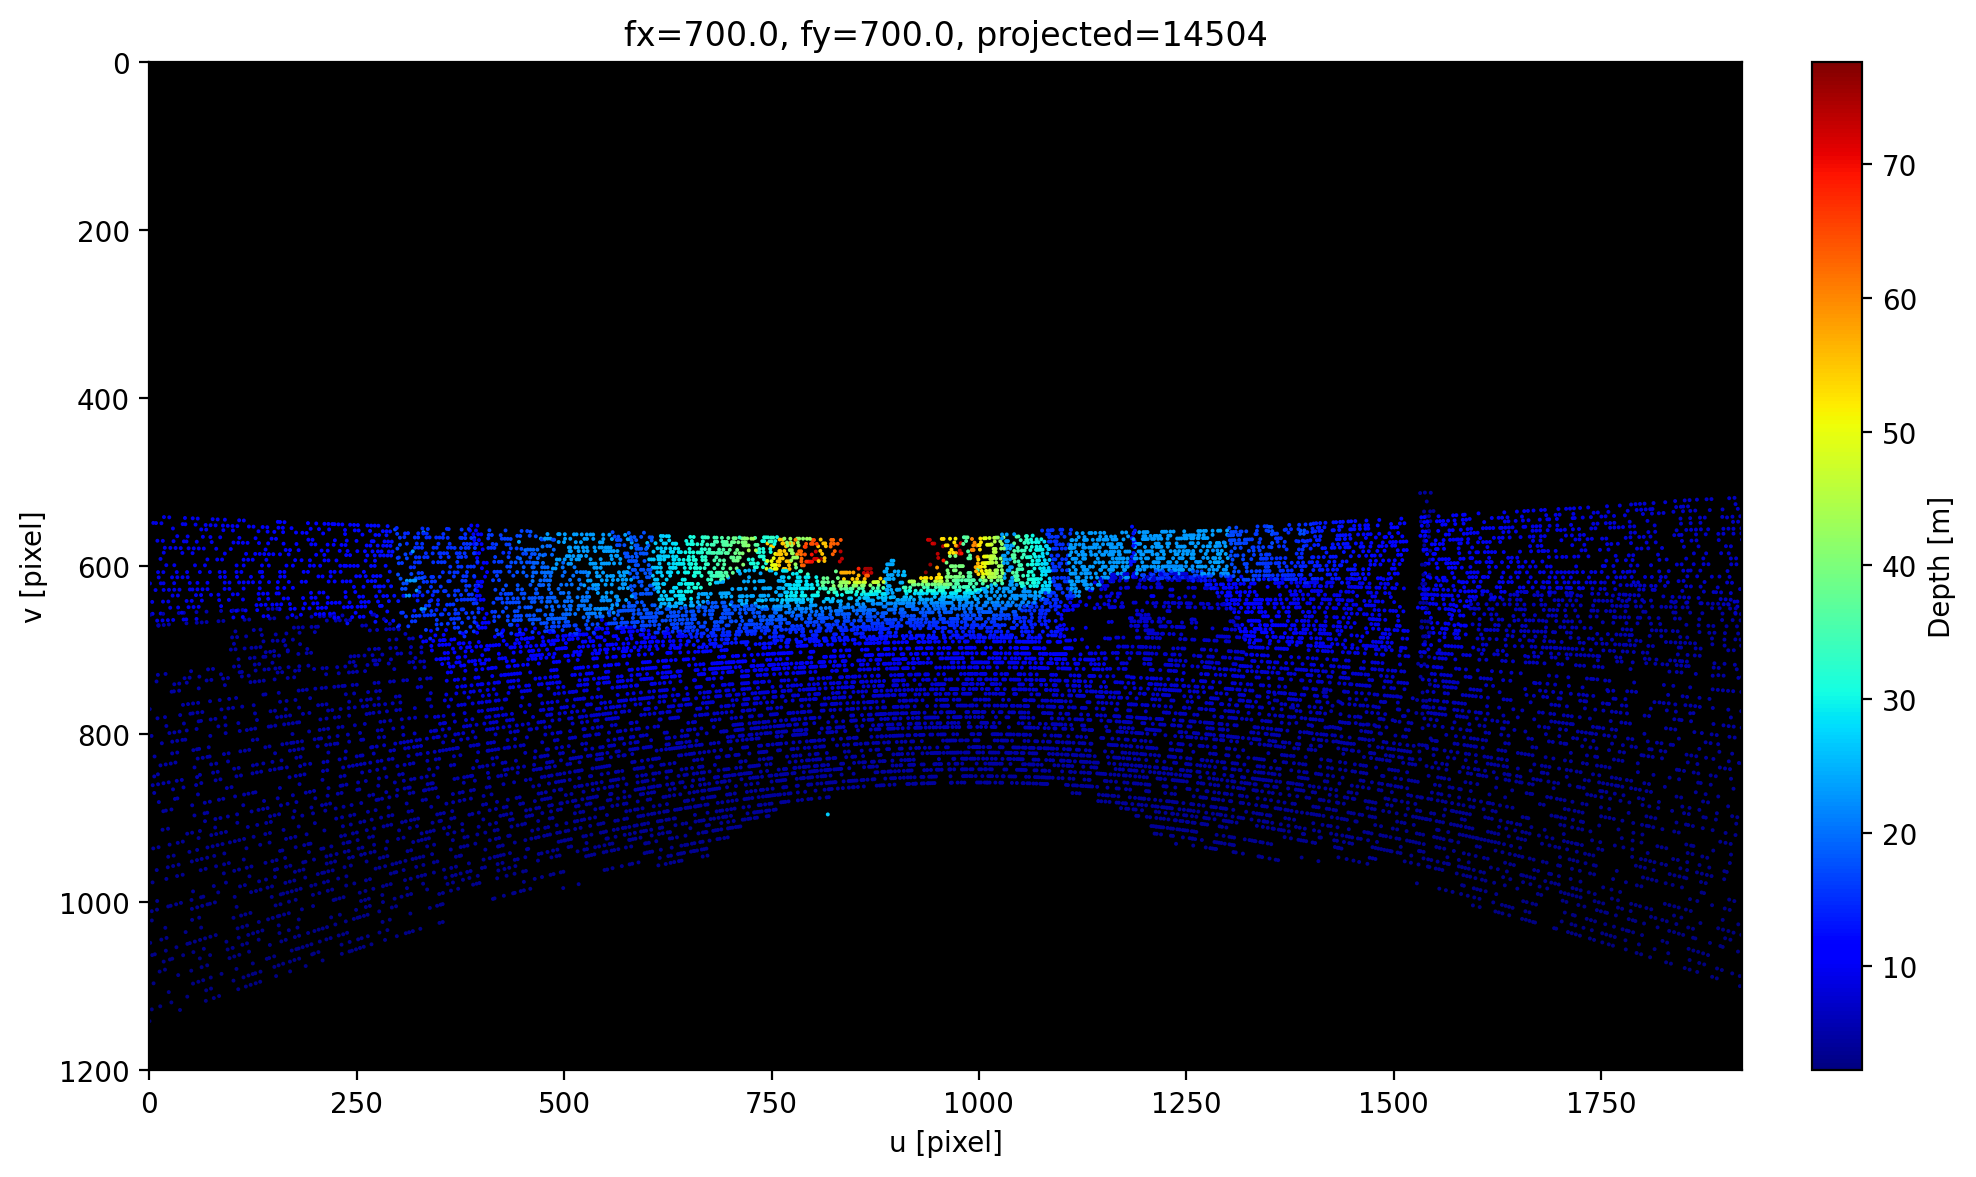
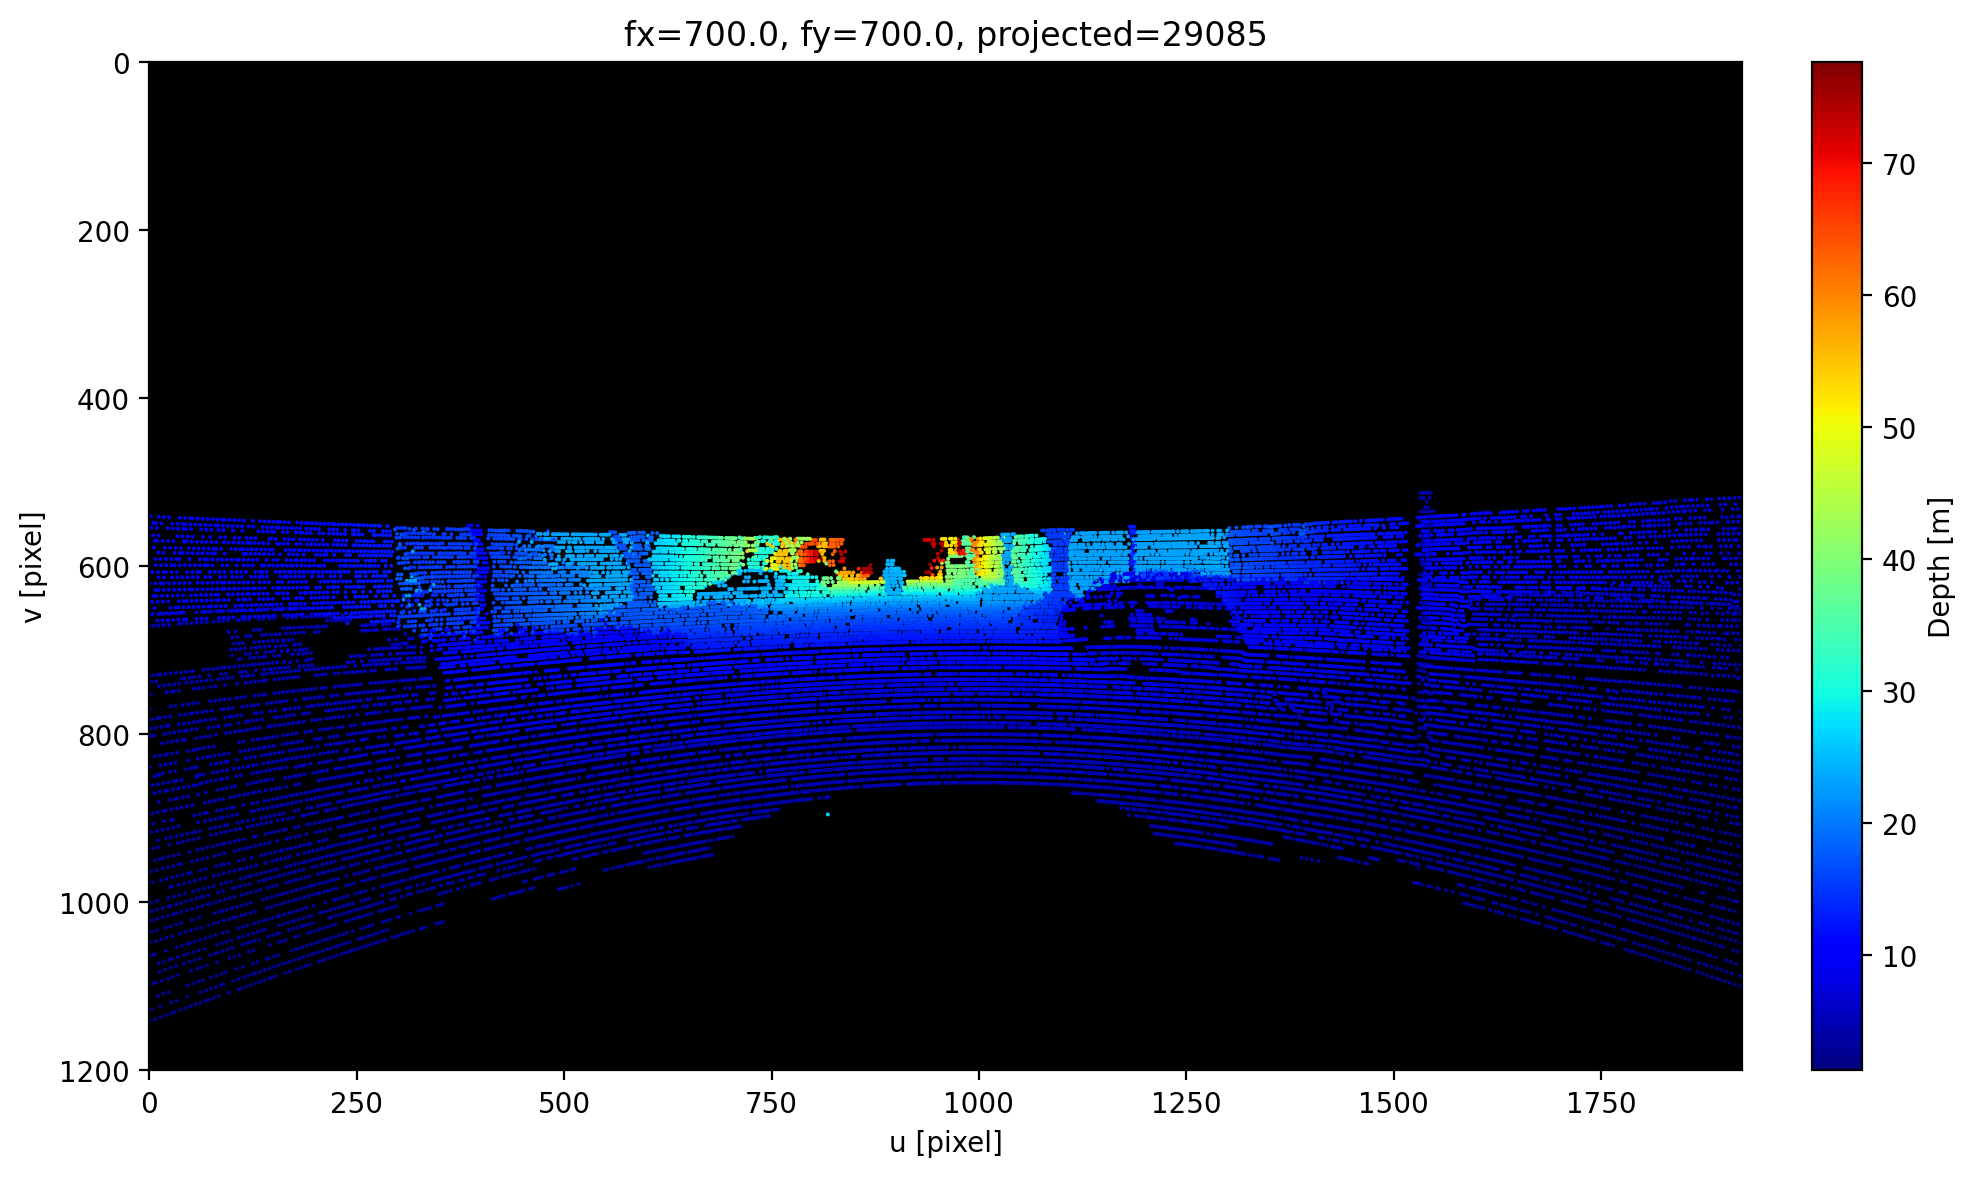
Add distortion coefficients to camera configuration and update projection logic
- Updated .gitignore to include /outputs directory
- Added new images to outputs for focal experiments
- Removed obsolete focal_experiment_pcd.png file
- Enhanced config.yaml to include distortion coefficients
- Implemented new functions in fov_compare.py for frustum depth calculations and point cloud coloring
- Modified projection.py to utilize distortion coefficients in the projection process

diff --git a/scripts/fov_compare.py b/scripts/fov_compare.py
@@ -259,6 +259,41 @@ def transform_points(T: np.ndarray, pts: np.ndarray) -> np.ndarray:
     return out[:, :3]
 
 
+def compute_reference_scaled_frustum_depths(
+    fx_list: List[float],
+    fy_list: List[float],
+    ref_depth: float,
+    mode: str = "fx",
+) -> List[float]:
+    """
+    가장 긴 초점거리를 기준으로 frustum depth를 비례 축소.
+
+    mode:
+      - "fx": fx 기준
+      - "fy": fy 기준
+      - "min": min(fx/fx_max, fy/fy_max)
+    """
+    fx_arr = np.array(fx_list, dtype=np.float64)
+    fy_arr = np.array(fy_list, dtype=np.float64)
+
+    fx_max = float(fx_arr.max())
+    fy_max = float(fy_arr.max())
+
+    depths = []
+    for fx, fy in zip(fx_arr, fy_arr):
+        if mode == "fx":
+            scale = fx / fx_max
+        elif mode == "fy":
+            scale = fy / fy_max
+        elif mode == "min":
+            scale = min(fx / fx_max, fy / fy_max)
+        else:
+            raise ValueError(f"Unsupported mode: {mode}")
+
+        depths.append(ref_depth * scale * 0.8)
+
+    return depths
+
 def make_frustum_lineset_from_T_lidar_cam(
     width: int,
     height: int,
@@ -356,14 +391,122 @@ def color_palette(n: int) -> List[Tuple[float, float, float]]:
 def fov_deg(image_size: int, focal: float) -> float:
     return float(np.degrees(2.0 * np.arctan(image_size / (2.0 * focal))))
 
+def compute_in_frustum_mask(
+    points_cam: np.ndarray,
+    width: int,
+    height: int,
+    fx: float,
+    fy: float,
+    cx: float,
+    cy: float,
+) -> np.ndarray:
+    """
+    points_cam: camera 좌표계 [N, 3]
+    return: 각 점이 해당 frustum 안에 있는지 bool mask [N]
+
+    far plane은 고정 frustum_depth가 아니라,
+    카메라 전방(Z > 0)에 있는 점들 중 가장 먼 점의 Z를 사용한다.
+    """
+    X = points_cam[:, 0]
+    Y = points_cam[:, 1]
+    Z = points_cam[:, 2]
+
+    forward_mask = Z > 0.0
+    if not np.any(forward_mask):
+        return np.zeros(points_cam.shape[0], dtype=bool)
+
+    far_depth = float(Z[forward_mask].max())
+
+    mask = Z > 0.0
+    mask &= Z <= far_depth
+
+    u = np.empty_like(Z)
+    v = np.empty_like(Z)
+
+    u[forward_mask] = fx * (X[forward_mask] / Z[forward_mask]) + cx
+    v[forward_mask] = fy * (Y[forward_mask] / Z[forward_mask]) + cy
+
+    mask &= (u >= 0.0) & (u <= (width - 1.0))
+    mask &= (v >= 0.0) & (v <= (height - 1.0))
+
+    return mask
+
+def make_layer_colored_point_cloud(
+    points_lidar: np.ndarray,
+    cfg: Open3DFrustumConfig,
+    fx_list: List[float],
+    fy_list: List[float],
+    frustum_colors: List[Tuple[float, float, float]],
+    outside_color: Tuple[float, float, float] = (0.5, 0.5, 0.5),
+) -> Tuple[o3d.geometry.PointCloud, np.ndarray, List[np.ndarray]]:
+    """
+    FOV가 넓은 것부터 좁은 것까지 계층적으로 점에 색을 칠한다.
+
+    반환:
+      - 색칠된 point cloud
+      - widest -> narrowest 순으로 정렬된 frustum 인덱스
+      - 각 frustum의 inside mask 리스트
+    """
+    # 최종 표시될 포인트 기준으로 먼저 voxel downsample 적용
+    pcd = make_point_cloud(points_lidar, cfg.voxel_size)
+    points_disp = np.asarray(pcd.points, dtype=np.float64)
+
+    # LiDAR -> Camera
+    points_cam = transform_points(cfg.T_cam_lidar, points_disp)
+
+    # 각 frustum별 mask 계산
+    masks: List[np.ndarray] = []
+    fov_x_list: List[float] = []
+
+    for fx, fy in zip(fx_list, fy_list):
+        masks.append(
+            compute_in_frustum_mask(
+                points_cam=points_cam,
+                width=cfg.camera.width,
+                height=cfg.camera.height,
+                fx=fx,
+                fy=fy,
+                cx=cfg.camera.cx,
+                cy=cfg.camera.cy,
+            )
+        )
+        fov_x_list.append(fov_deg(cfg.camera.width, fx))
+
+    # widest -> narrowest
+    sorted_indices = np.argsort(np.array(fov_x_list))[::-1]
+
+    colors_arr = np.tile(
+        np.array(outside_color, dtype=np.float64),
+        (points_disp.shape[0], 1),
+    )
+
+    # 좁은 것부터 칠해야 중심부가 유지되고, 바깥 band만 넓은 FOV 색이 남음
+    narrower_union = np.zeros(points_disp.shape[0], dtype=bool)
+
+    for idx in sorted_indices[::-1]:  # narrowest -> widest
+        band_mask = masks[idx] & (~narrower_union)
+        colors_arr[band_mask] = np.array(frustum_colors[idx], dtype=np.float64)
+        narrower_union |= masks[idx]
+
+    pcd.colors = o3d.utility.Vector3dVector(colors_arr)
+    return pcd, sorted_indices, masks
 
 def run_visualization(cfg: Open3DFrustumConfig) -> None:
     points = load_points(cfg.points_path, cfg.points_format)
     points = downsample_points(points, cfg.max_points)
-    pcd = make_point_cloud(points, cfg.voxel_size)
 
     fy_list = cfg.fy_list if cfg.fy_list is not None else cfg.fx_list
     colors = color_palette(len(cfg.fx_list))
+
+    # FOV 계층 색칠된 point cloud 생성
+    pcd, sorted_indices, masks = make_layer_colored_point_cloud(
+        points_lidar=points,
+        cfg=cfg,
+        fx_list=cfg.fx_list,
+        fy_list=fy_list,
+        frustum_colors=colors,
+        outside_color=(0.5, 0.5, 0.5),
+    )
 
     T_lidar_cam = np.linalg.inv(cfg.T_cam_lidar)
 
@@ -380,16 +523,42 @@ def run_visualization(cfg: Open3DFrustumConfig) -> None:
             T_lidar_cam=T_lidar_cam,
             size=cfg.camera_frame_size,
         )
-        geometries.append(cam_frame)  
+        geometries.append(cam_frame)
+
+    print("\n=== Point coloring order (widest -> narrowest) ===")
+    for rank, idx in enumerate(sorted_indices):
+        fx = cfg.fx_list[idx]
+        fy = fy_list[idx]
+        fov_x = fov_deg(cfg.camera.width, fx)
+        fov_y = fov_deg(cfg.camera.height, fy)
+        inside_count = int(masks[idx].sum())
+
+        print(
+            f"[rank {rank}] frustum_idx={idx}, "
+            f"fx={fx:.3f}, fy={fy:.3f}, "
+            f"FOVx={fov_x:.3f}, FOVy={fov_y:.3f}, "
+            f"inside_points={inside_count}, color={colors[idx]}"
+        )
+
+    fy_list = cfg.fy_list if cfg.fy_list is not None else cfg.fx_list
+    colors = color_palette(len(cfg.fx_list))
+
+    frustum_depths = compute_reference_scaled_frustum_depths(
+        fx_list=cfg.fx_list,
+        fy_list=fy_list,
+        ref_depth=cfg.frustum_depth,
+        mode="fx",
+    )
 
     print("\n=== Frustum list ===")
-    for i, (fx, fy, color) in enumerate(zip(cfg.fx_list, fy_list, colors)):
+    for i, (fx, fy, color, depth_i) in enumerate(zip(cfg.fx_list, fy_list, colors, frustum_depths)):
         fov_x = fov_deg(cfg.camera.width, fx)
         fov_y = fov_deg(cfg.camera.height, fy)
 
         print(
             f"[{i}] color={color}  fx={fx:.3f}, fy={fy:.3f}, "
-            f"FOVx={fov_x:.3f} deg, FOVy={fov_y:.3f} deg"
+            f"FOVx={fov_x:.3f} deg, FOVy={fov_y:.3f} deg, "
+            f"depth={depth_i:.3f}"
         )
 
         frustum = make_frustum_lineset_from_T_lidar_cam(
@@ -400,21 +569,25 @@ def run_visualization(cfg: Open3DFrustumConfig) -> None:
             cx=cfg.camera.cx,
             cy=cfg.camera.cy,
             T_lidar_cam=T_lidar_cam,
-            depth=cfg.frustum_depth,
+            depth=depth_i,
             color=color,
         )
         geometries.append(frustum)
 
-        if cfg.add_camera_centers:
-            sphere = make_camera_center_sphere(
-                T_lidar_cam=T_lidar_cam,
-                radius=cfg.camera_center_radius,
-                color=color,
-            )
-            geometries.append(sphere)
+    if cfg.add_camera_centers:
+        sphere = make_camera_center_sphere(
+            T_lidar_cam=T_lidar_cam,
+            radius=cfg.camera_center_radius,
+            color=color,
+        )
+        geometries.append(sphere)
 
     vis = o3d.visualization.Visualizer()
-    vis.create_window(window_name="Open3D Focal Length Frustum Viewer", width=1600, height=900)
+    vis.create_window(
+        window_name="Open3D Focal Length Frustum Viewer",
+        width=1600,
+        height=900,
+    )
     for g in geometries:
         vis.add_geometry(g)
 

diff --git a/scripts/projection.py b/scripts/projection.py
@@ -52,6 +52,7 @@ class ExperimentConfig:
 
     cx: Optional[float]
     cy: Optional[float]
+    dist_coeffs: np.ndarray
 
     min_depth: float
     max_points: int
@@ -170,6 +171,9 @@ def build_experiment_config(raw: Dict[str, Any]) -> ExperimentConfig:
     fy_list_raw = exp_cfg.get("fy_list", None)
     fy_list = [float(x) for x in fy_list_raw] if fy_list_raw is not None else None
 
+    dist_coeffs_raw = cam_cfg.get("dist_coeffs", [0.0, 0.0, 0.0, 0.0, 0.0])
+    dist_coeffs = np.array(dist_coeffs_raw, dtype=np.float64).reshape(-1, 1)
+
     cfg = ExperimentConfig(
         points_path=io_cfg.get("points_path", None),
         points_format=str(io_cfg.get("points_format", "npy")).lower(),
@@ -183,6 +187,7 @@ def build_experiment_config(raw: Dict[str, Any]) -> ExperimentConfig:
 
         cx=float(cam_cfg["cx"]) if cam_cfg.get("cx", None) is not None else None,
         cy=float(cam_cfg["cy"]) if cam_cfg.get("cy", None) is not None else None,
+        dist_coeffs=dist_coeffs,
 
         min_depth=float(exp_cfg.get("min_depth", 0.1)),
         max_points=int(exp_cfg.get("max_points", 30000)),
@@ -334,32 +339,61 @@ def transform_points(points_lidar: np.ndarray, T_cam_lidar: np.ndarray) -> np.nd
 
 
 def project_points(
-    points_cam: np.ndarray,
+    points_lidar: np.ndarray,
+    T_cam_lidar: np.ndarray,
     intr: CameraIntrinsics,
+    dist_coeffs: np.ndarray,
     min_depth: float,
 ) -> Tuple[np.ndarray, np.ndarray]:
-    X = points_cam[:, 0]
-    Y = points_cam[:, 1]
-    Z = points_cam[:, 2]
+    """
+    Use cv2.projectPoints with distortion coefficients.
 
-    valid = Z > min_depth
-    X = X[valid]
-    Y = Y[valid]
-    Z = Z[valid]
+    Returns:
+        uv_in_img: [M, 2]
+        depth_in_img: [M]
+    """
+    if points_lidar.ndim != 2 or points_lidar.shape[1] != 3:
+        raise ValueError("points_lidar must have shape [N, 3].")
 
-    u = intr.fx * (X / Z) + intr.cx
-    v = intr.fy * (Y / Z) + intr.cy
+    if T_cam_lidar.shape != (4, 4):
+        raise ValueError("T_cam_lidar must have shape [4, 4].")
 
-    uv = np.stack([u, v], axis=1)
+    R = T_cam_lidar[:3, :3]
+    t = T_cam_lidar[:3, 3]
+
+    # depth 계산용: camera 좌표계로 변환
+    points_cam = transform_points(points_lidar, T_cam_lidar)
+    depth = points_cam[:, 2]
+
+    valid_depth = depth > min_depth
+    if not np.any(valid_depth):
+        return np.empty((0, 2), dtype=np.float64), np.empty((0,), dtype=np.float64)
+
+    points_lidar_valid = points_lidar[valid_depth]
+    depth_valid = depth[valid_depth]
+
+    camera_matrix = intr.K()
+    rvec, _ = cv2.Rodrigues(R)
+    tvec = t.reshape(3, 1).astype(np.float64)
+
+    image_points, _ = cv2.projectPoints(
+        objectPoints=points_lidar_valid.astype(np.float64),
+        rvec=rvec,
+        tvec=tvec,
+        cameraMatrix=camera_matrix,
+        distCoeffs=dist_coeffs.astype(np.float64),
+    )
+
+    uv = image_points.reshape(-1, 2)
 
     in_img = (
-        (uv[:, 0] >= 0)
+        (uv[:, 0] >= 0.0)
         & (uv[:, 0] < intr.width)
-        & (uv[:, 1] >= 0)
+        & (uv[:, 1] >= 0.0)
         & (uv[:, 1] < intr.height)
     )
 
-    return uv[in_img], Z[in_img]
+    return uv[in_img], depth_valid[in_img]
 
 
 # =========================
@@ -449,7 +483,13 @@ def run_experiment(cfg: ExperimentConfig) -> None:
             height=cfg.height,
         )
 
-        uv, depth = project_points(points_cam, intr, min_depth=cfg.min_depth)
+        uv, depth = project_points(
+            points_lidar=points_lidar,
+            T_cam_lidar=cfg.T_cam_lidar,
+            intr=intr,
+            dist_coeffs=cfg.dist_coeffs,
+            min_depth=cfg.min_depth
+        )
         projection_results.append((fx, fy, uv, depth))
 
         if len(depth) > 0:
